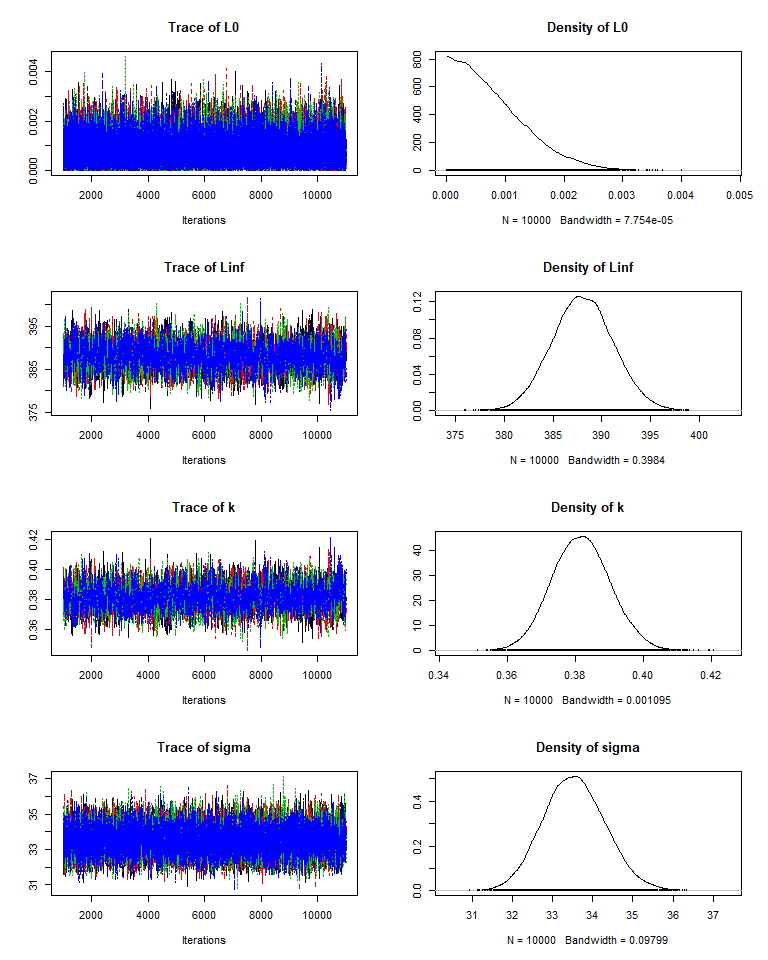
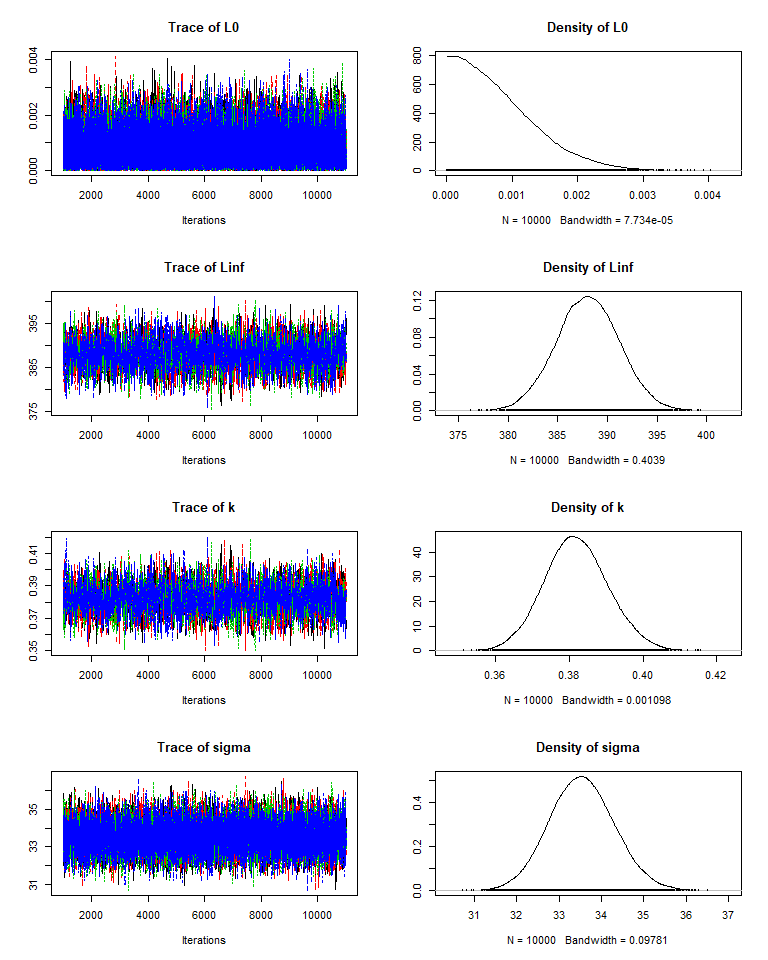
README figure fix

diff --git a/README.md b/README.md
@@ -57,13 +57,13 @@ head(results)
 #> End = 1007 
 #> Thinning interval = 1 
 #>                L0     Linf         k    sigma
-#> [1,] 0.0006845955 387.9871 0.3825990 33.51139
-#> [2,] 0.0006323733 388.1990 0.3828767 33.35809
-#> [3,] 0.0012184070 388.1364 0.3728779 35.09864
-#> [4,] 0.0005579542 390.4181 0.3781114 33.96910
-#> [5,] 0.0011577562 390.8885 0.3740543 34.00062
-#> [6,] 0.0006962200 392.4660 0.3698290 34.10827
-#> [7,] 0.0002979405 391.2133 0.3808038 33.44632
+#> [1,] 9.569273e-04 390.1958 0.3848924 33.85797
+#> [2,] 4.067566e-04 387.0640 0.3834602 33.34804
+#> [3,] 1.413548e-04 389.4191 0.3749205 32.69723
+#> [4,] 4.676487e-04 390.5338 0.3762362 33.01676
+#> [5,] 6.423364e-05 390.5068 0.3774113 33.06027
+#> [6,] 4.414119e-04 389.8423 0.3789968 32.41419
+#> [7,] 1.287751e-03 387.0774 0.3803874 32.67245
 #> 
 #> [[2]]
 #> Markov Chain Monte Carlo (MCMC) output:
@@ -71,13 +71,13 @@ head(results)
 #> End = 1007 
 #> Thinning interval = 1 
 #>                L0     Linf         k    sigma
-#> [1,] 6.377257e-04 382.5258 0.3995279 33.71099
-#> [2,] 5.080692e-04 382.1476 0.3945358 33.08543
-#> [3,] 8.282502e-04 383.5932 0.3993649 33.04936
-#> [4,] 4.679651e-05 381.0961 0.4013889 32.23014
-#> [5,] 3.517429e-04 381.5760 0.3980532 32.51476
-#> [6,] 1.697605e-03 385.1239 0.3866437 33.23379
-#> [7,] 1.613641e-03 386.5134 0.3898650 32.88913
+#> [1,] 0.0002511498 385.9061 0.3899029 33.57525
+#> [2,] 0.0012376698 386.5598 0.3883286 33.40353
+#> [3,] 0.0012621650 383.8936 0.3944821 33.08603
+#> [4,] 0.0003852762 383.3767 0.3925615 32.69749
+#> [5,] 0.0019371831 383.5260 0.3937610 33.82304
+#> [6,] 0.0015517513 381.7044 0.3995990 33.05927
+#> [7,] 0.0014588565 381.7352 0.3988780 34.05518
 #> 
 #> [[3]]
 #> Markov Chain Monte Carlo (MCMC) output:
@@ -85,13 +85,13 @@ head(results)
 #> End = 1007 
 #> Thinning interval = 1 
 #>                L0     Linf         k    sigma
-#> [1,] 0.0001014281 388.7340 0.3792396 34.02489
-#> [2,] 0.0008298235 387.5507 0.3829330 34.08608
-#> [3,] 0.0014248159 387.0859 0.3857916 33.44174
-#> [4,] 0.0006557494 386.7858 0.3848339 33.18208
-#> [5,] 0.0025026851 386.3485 0.3903799 33.35219
-#> [6,] 0.0007971464 384.8473 0.3864583 33.26862
-#> [7,] 0.0001179350 388.1401 0.3834866 33.90521
+#> [1,] 1.769096e-03 391.2649 0.3757260 33.11727
+#> [2,] 5.758551e-04 389.8574 0.3779173 34.59689
+#> [3,] 8.458344e-04 391.0381 0.3741445 35.18781
+#> [4,] 3.349123e-05 392.1897 0.3727302 32.44165
+#> [5,] 6.751491e-04 391.1179 0.3709289 32.27036
+#> [6,] 1.079350e-03 390.8434 0.3763794 35.27099
+#> [7,] 1.512822e-03 390.0623 0.3726670 32.71365
 #> 
 #> [[4]]
 #> Markov Chain Monte Carlo (MCMC) output:
@@ -99,13 +99,13 @@ head(results)
 #> End = 1007 
 #> Thinning interval = 1 
 #>                L0     Linf         k    sigma
-#> [1,] 5.222799e-04 386.7902 0.3894941 33.58785
-#> [2,] 8.565135e-04 384.8060 0.3878843 32.50063
-#> [3,] 1.722052e-06 385.2598 0.3843889 34.04545
-#> [4,] 8.038023e-04 386.4523 0.3870630 32.72811
-#> [5,] 6.076832e-05 387.1748 0.3854848 34.72827
-#> [6,] 1.502280e-03 387.1375 0.3857406 33.72246
-#> [7,] 1.922586e-04 387.3524 0.3835895 34.48434
+#> [1,] 0.0002970924 383.3299 0.3942570 33.33363
+#> [2,] 0.0008734722 384.7989 0.3919450 33.05928
+#> [3,] 0.0001001651 384.8165 0.3873583 32.98044
+#> [4,] 0.0008350172 385.2169 0.3872892 34.19510
+#> [5,] 0.0002610241 386.6675 0.3882188 32.18001
+#> [6,] 0.0007794328 387.7779 0.3881649 34.64965
+#> [7,] 0.0021415681 385.6544 0.3871649 33.03116
 #> 
 #> attr(,"class")
 #> [1] "mcmc.list"
@@ -124,19 +124,19 @@ summary(results)
 #> 1. Empirical mean and standard deviation for each variable,
 #>    plus standard error of the mean:
 #> 
-#>            Mean       SD  Naive SE Time-series SE
-#> L0    7.971e-04 0.000609 3.045e-06      3.045e-06
-#> Linf  3.881e+02 3.140774 1.570e-02      6.050e-02
-#> k     3.818e-01 0.008597 4.298e-05      1.696e-04
-#> sigma 3.354e+01 0.769629 3.848e-03      6.897e-03
+#>            Mean        SD  Naive SE Time-series SE
+#> L0    7.988e-04 0.0006075 3.037e-06      3.035e-06
+#> Linf  3.880e+02 3.1719584 1.586e-02      6.236e-02
+#> k     3.819e-01 0.0086671 4.334e-05      1.752e-04
+#> sigma 3.354e+01 0.7682464 3.841e-03      7.245e-03
 #> 
 #> 2. Quantiles for each variable:
 #> 
 #>            2.5%       25%       50%       75%     97.5%
-#> L0    2.867e-05 3.144e-04 6.680e-04 1.151e-03 2.266e-03
-#> Linf  3.820e+02 3.859e+02 3.880e+02 3.901e+02 3.943e+02
-#> k     3.654e-01 3.759e-01 3.817e-01 3.875e-01 3.989e-01
-#> sigma 3.208e+01 3.301e+01 3.353e+01 3.405e+01 3.510e+01
+#> L0    3.233e-05 3.154e-04 6.724e-04   0.00115 2.274e-03
+#> Linf  3.818e+02 3.859e+02 3.880e+02 390.16533 3.943e+02
+#> k     3.652e-01 3.760e-01 3.817e-01   0.38755 3.994e-01
+#> sigma 3.206e+01 3.302e+01 3.353e+01  34.04812 3.509e+01
 plot(results,density = T, smooth = F)
 ```
 
